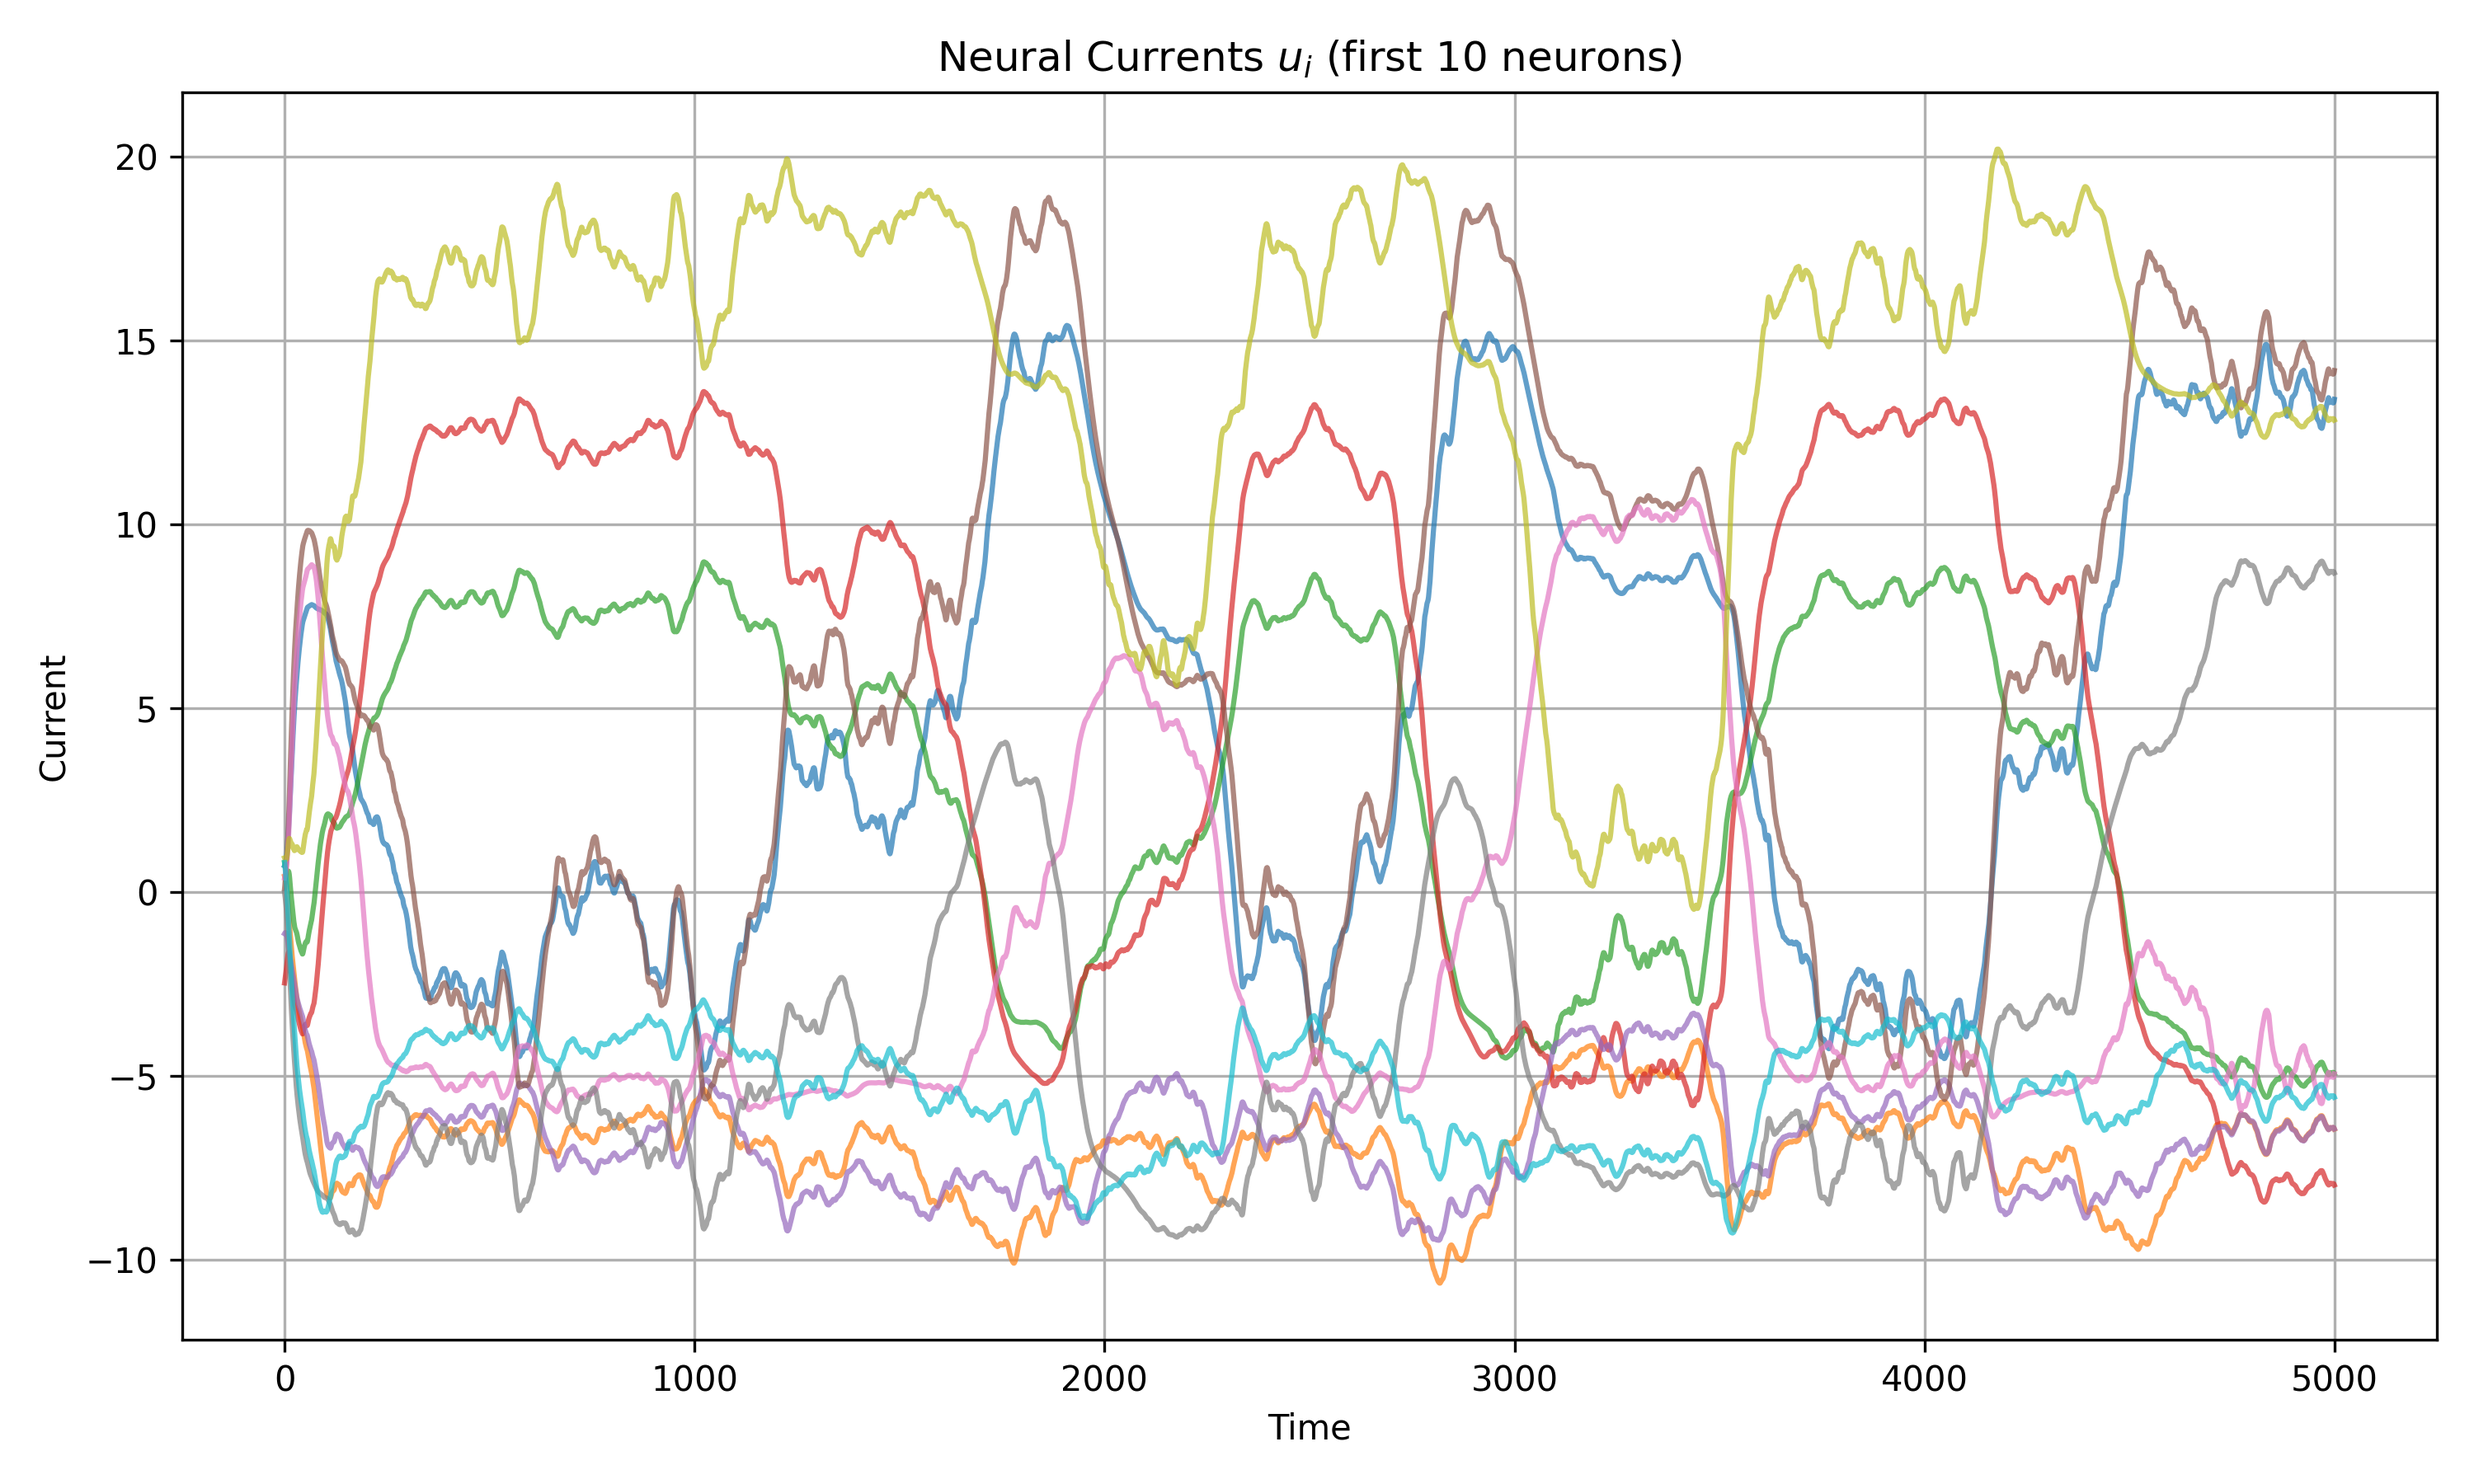
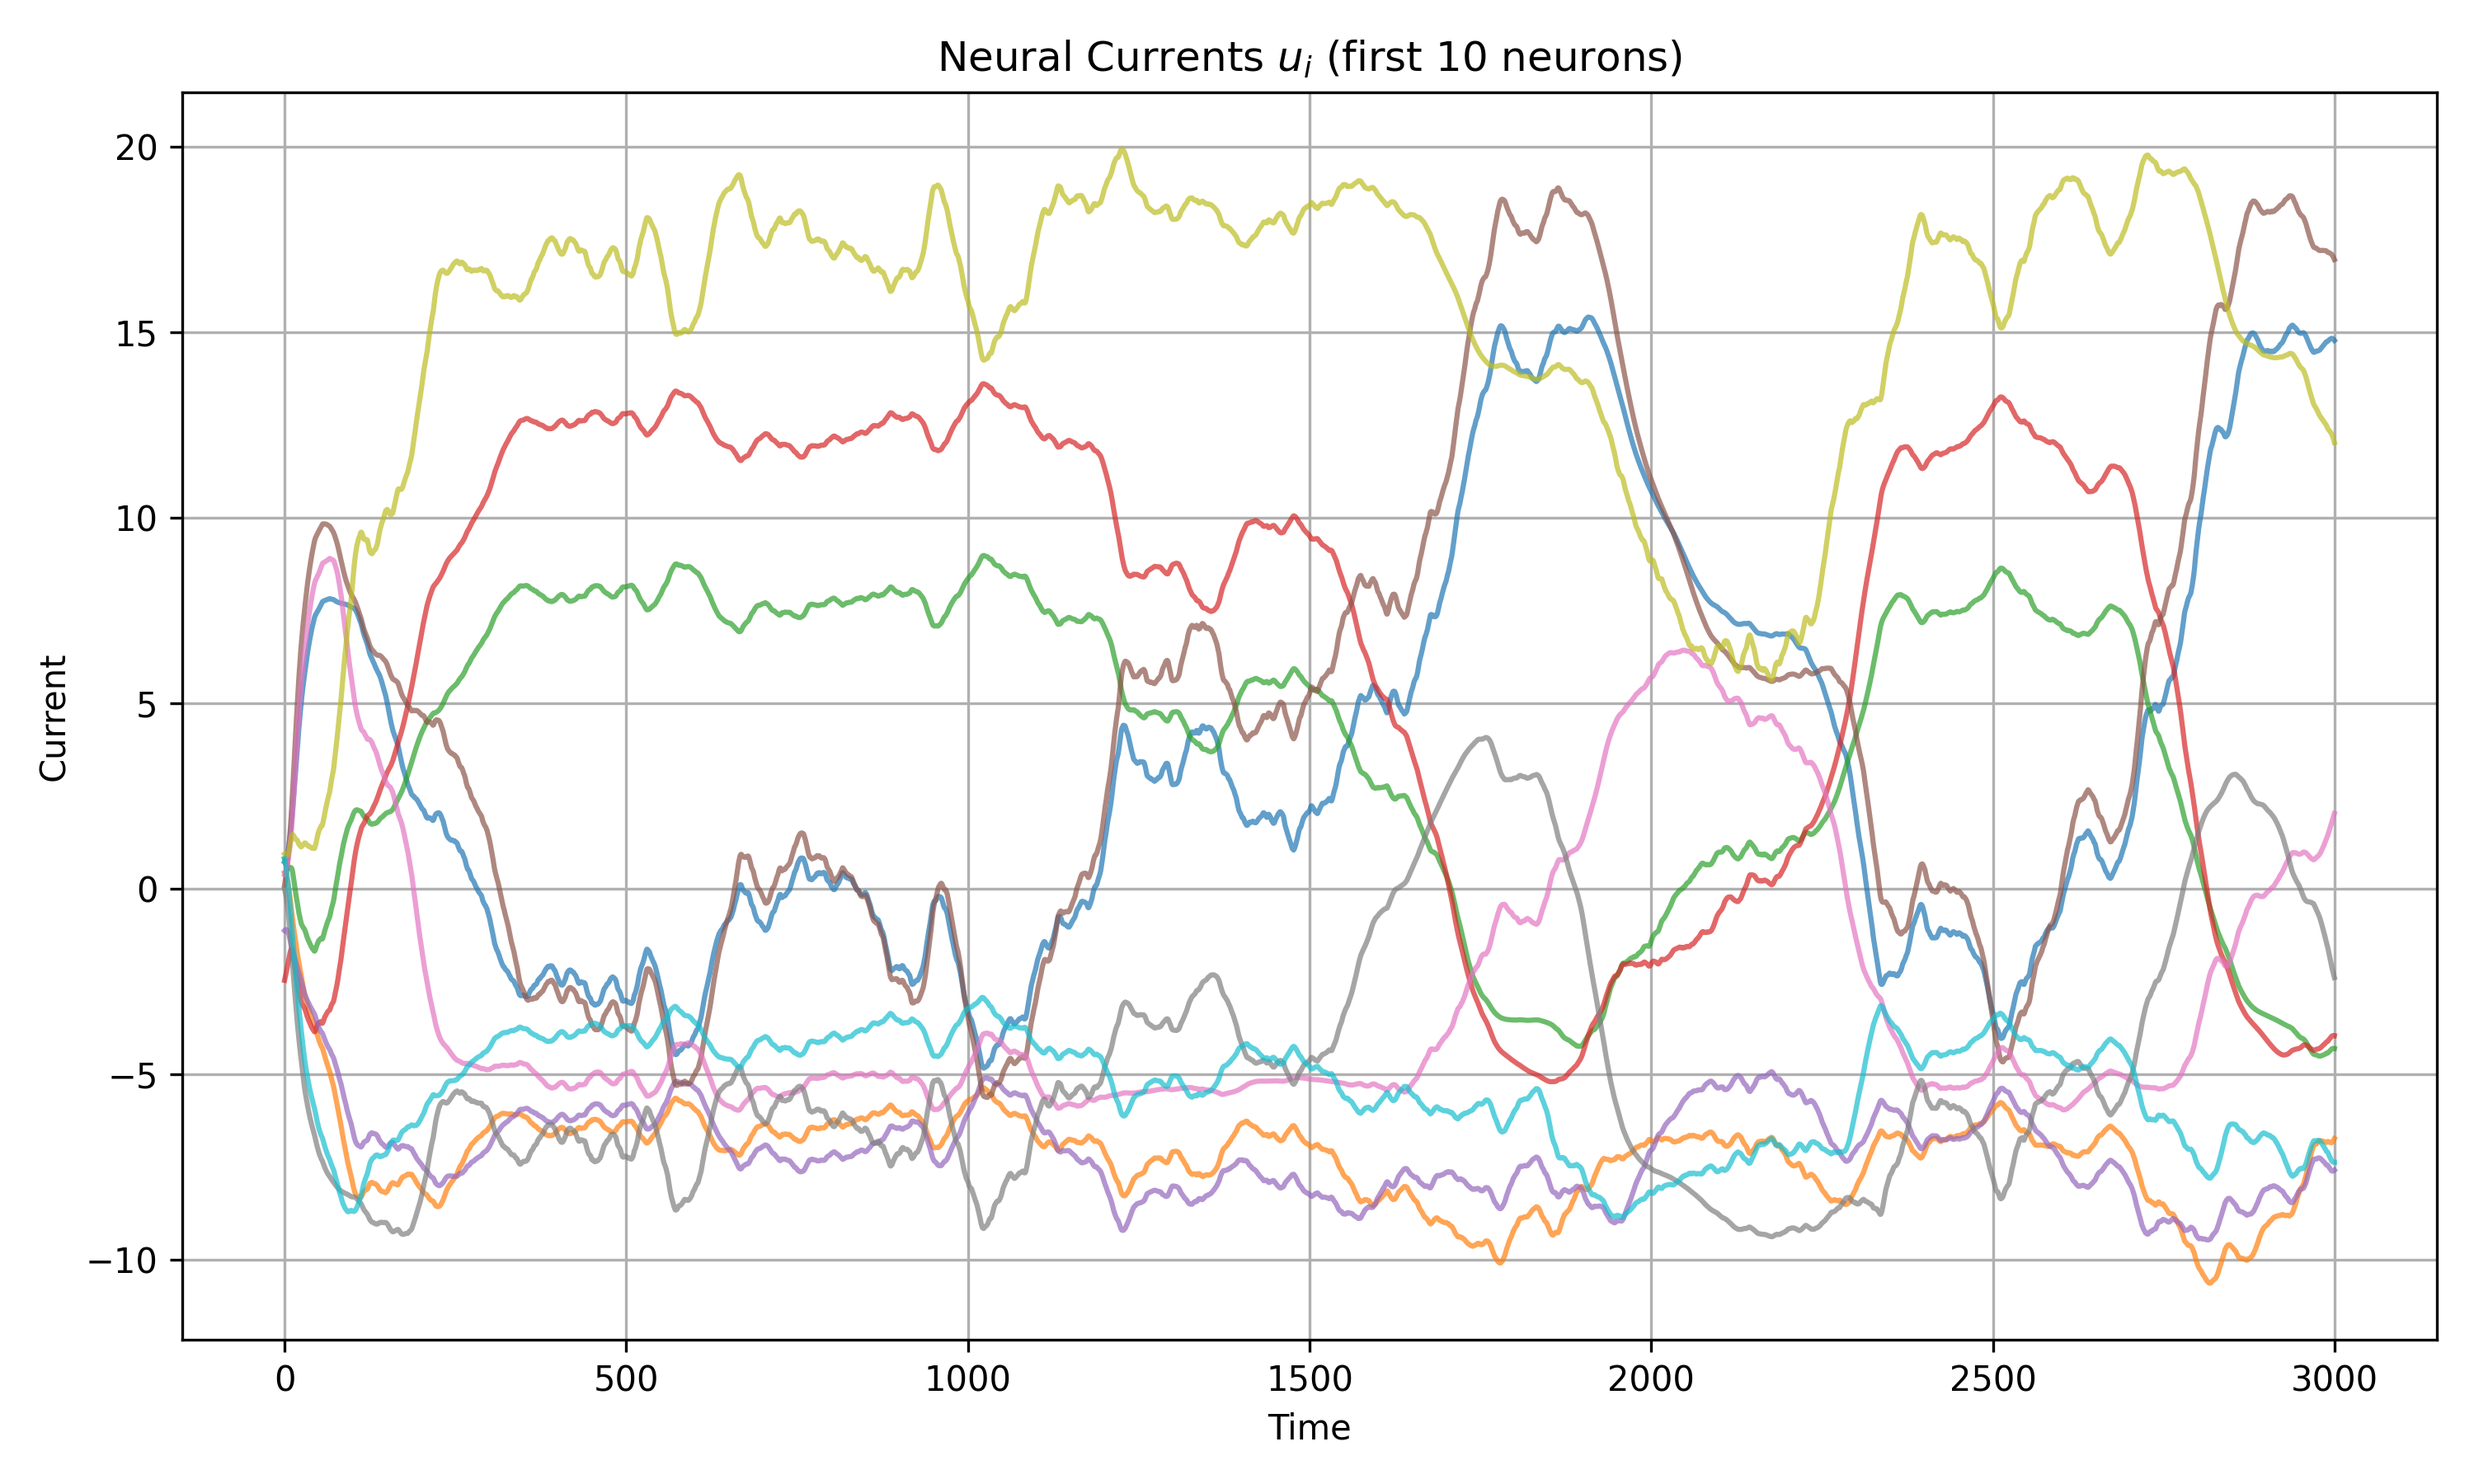
energy

diff --git a/src/modules/energy.py b/src/modules/energy.py
@@ -9,16 +9,73 @@ and the new symmetric and antisymmetric components derived from the total connec
 """
 
 import numpy as np
+from scipy.integrate import quad
+from scipy.interpolate import interp1d
+from modules.activation import inverse_sigmoid_function, inverse_relu_function
 
-def compute_energy(W, h):
+
+def compute_energy(
+    W, h,
+    phi_function_type="sigmoid",
+    phi_amplitude=1.0,
+    phi_beta=1.5,
+    phi_r_m=30.0,
+    phi_x_r=2.0,
+    num_interp_points=1000
+):
     """
-    Compute the total energy of the system given the connectivity matrix W and history h.
+    Compute total energy E(t) = -0.5 * h_t^T W h_t + sum_i int_0^{h_i} g^{-1}(x) dx
+    using lookup-table interpolation for fast integration.
+    It can handle both the single state case (h is a vector) and the multi-state case (h is a matrix).
+    
+    Args:
+        W: (N x N) connectivity matrix
+        h: (T x N) array of firing rates OR memory pattern (the single state case)
+        phi_function_type: "sigmoid" or "relu"
+        phi_amplitude, phi_beta, phi_r_m, phi_x_r: parameters of inverse activation
+        num_interp_points: number of points for lookup table grid
+        
+    Returns:
+        E: (T,) energy at each time step if h is a matrix, or a single value if h is a vector.
     """
-    # Ensure h is a column vector
+    # Ensure h shape is (T, N)
     if h.ndim == 1:
-        h = h[:, np.newaxis]
-    # Total energy
-    E_mat = h @ W @ h.T
-    # Sum over the 0 axis to get a scalar
-    E_traj = - np.sum(E_mat, axis=0)
-    return E_traj
+        h.reshape(-1, 1)  # If h is 1D, convert to 2D column vector
+        single_state = True
+        T, N = 1, h.shape[0]
+    else:
+        single_state = False
+        T, N = h.shape
+
+    # Select inverse function
+    if phi_function_type == "sigmoid":
+        inv_func = lambda v: inverse_sigmoid_function(v, r_m=phi_r_m, beta=phi_beta, x_r=phi_x_r)
+        h_clip_min = 1e-4
+        h_clip_max = phi_r_m - 1e-4
+    elif phi_function_type == "relu":
+        inv_func = lambda v: inverse_relu_function(v, amplitude=phi_amplitude)
+        h_clip_min = 0.0
+        h_clip_max = phi_amplitude * 1.5  # estensione sicura
+    else:
+        raise ValueError("Unsupported phi_function_type")
+
+    # Precompute lookup table
+    x_vals = np.linspace(h_clip_min, h_clip_max, num_interp_points)
+    integral_vals = np.array([quad(inv_func, 0, x)[0] for x in x_vals])
+    interp_integral = interp1d(x_vals, integral_vals, kind="linear", bounds_error=False, fill_value="extrapolate")
+
+    # Compute energy
+    energies = np.zeros(T)
+    for t in range(T):
+        h_t = h[t, :]
+        h_t_clipped = np.clip(h_t, h_clip_min, h_clip_max)
+
+        # First term: -0.5 * h_t^T W h_t
+        energy_syn = -0.5 * h_t @ W @ h_t
+
+        # Second term: sum_i ∫0^{h_i} g^{-1}(x) dx via interpolation
+        energy_act =  np.sum(interp_integral(h_t_clipped))
+        energies[t] = energy_syn + energy_act
+
+    return energies if not single_state else energies[0]
+

diff --git a/src/main.py b/src/main.py
@@ -6,6 +6,7 @@ This script allows you to generate connectivity matrices and run simulations.
 All parameters are configured in parameters.py - edit that file to change simulation settings.
 """
 import os
+from flask import app
 import numpy as np
 import matplotlib.pyplot as plt
 from sympy import use
@@ -67,6 +68,7 @@ from parameters import (
 
     # Visualization parameters
     n_display,
+    show_sim_plots,
 
     # Seed for reproducibility
     seed
@@ -82,7 +84,7 @@ def main():
     )
 
     # Generate connectivity matrix with all parameters
-    W_S, W_A, W, eta = generate_connectivity_matrix(
+    W_S, W_A, W, eta, phi_eta = generate_connectivity_matrix(
         N=N,
         p=p,
         q=q,
@@ -376,6 +378,7 @@ def main():
     np.save(os.path.join(npy_dir, "connectivity_asymmetric.npy"), W_A)
     np.save(os.path.join(npy_dir, "connectivity_total.npy"), W)
     np.save(os.path.join(npy_dir, "memory_patterns.npy"), eta)
+    np.save(os.path.join(npy_dir, "phi_memory_patterns.npy"), phi_eta)
     
     # Save OU process
     zeta_array = np.asarray(zeta)
@@ -626,19 +629,25 @@ def main():
 
     print(f"Saved complete figure: complete_simulation_results.png")
     print(f"Saved individual plots: {', '.join([f'{title}.png' for title in titles])}")
-
-    plt.show()
+    if show_sim_plots:
+        plt.show()
+    else:
+        print("Plots not displayed, only saved to files.")
     plt.close('all')  # Close all figures to free memory
 
     # Calculate and plot energy
+    print("\nCalculating and plotting energy trajectories...")
+    # Load connectivity matrices and history from npy files
     connectivity_path = os.path.join(npy_dir, "connectivity_total.npy")
     overlaps_path = os.path.join(npy_dir, "pattern_overlaps.npy")
     original_symm_path = os.path.join(npy_dir, "connectivity_symmetric.npy")
     original_asymm_path = os.path.join(npy_dir, "connectivity_asymmetric.npy")
-    history_path = os.path.join(npy_dir, "neural_currents.npy")
+    history_path = os.path.join(npy_dir, "firing_rates.npy")
+    phi_memory_patterns_path = os.path.join(npy_dir, "phi_memory_patterns.npy")
     W, h = np.load(connectivity_path), np.load(history_path)
     W_symm = np.load(original_symm_path)
     W_asymm = np.load(original_asymm_path)
+
     # plot energy trajectories both original and divided with symmetric and antisymmetric components
     E_total_traj = compute_energy(W, h)
     E_symm_traj = compute_energy(W_symm, h)

diff --git a/src/parameters.py b/src/parameters.py
@@ -10,6 +10,9 @@ Edit this file to configure your simulation, then run main.py to execute.
 # =============================================================================
 
 # Network size and pattern parameters
+from scipy.__config__ import show
+
+
 N = 1000               # Number of neurons (increased for Numba testing)
 p = 5                 # Number of patterns for symmetric component
 q = 3                  # Number of patterns for asymmetric component (q <= p)
@@ -55,7 +58,7 @@ apply_er_to_asymmetric = False  # Apply Erdős-Rényi to asymmetric component
 # Time and integration parameters
 tau = 20.0              # Time constant for neural dynamics
 t_start = 0.0           # Simulation start time
-t_end = 5000.0           # Simulation end time
+t_end = 3000.0           # Simulation end time
 dt = 0.2                # Time step for simulation output (increased for efficiency)
 
 # Performance optimization
@@ -76,7 +79,7 @@ use_ou = True          # Whether to use Ornstein-Uhlenbeck process for ζ(t)
 tau_zeta = 20.0          # OU time constant
 zeta_bar = 0.6          # OU mean value
 sigma_zeta = 0.3        # OU noise intensity
-constant_zeta = 0.5     # Constant ζ value when OU is not used
+constant_zeta = 1.     # Constant ζ value when OU is not used
 
 # =============================================================================
 # VISUALIZATION PARAMETERS
@@ -84,7 +87,7 @@ constant_zeta = 0.5     # Constant ζ value when OU is not used
 
 # Number of neurons to display in plots
 n_display = 10             # Maximum number of neurons to display in plots (reduced for 10k)
-
+show_sim_plots = False  # Whether to show individual plots for each variable
 
 # =============================================================================
 # SEED

diff --git a/src/modules/activation.py b/src/modules/activation.py
@@ -75,3 +75,17 @@ def step_function(x, q_f=1.0, x_f=0.0):
   x = np.asarray(x)
   y = np.where(x > x_f, q_f, -(1 - q_f))
   return y
+
+def inverse_sigmoid_function(x, r_m=1.0, beta=1.0, x_r=0.0):
+    """
+    Inverse of the 3-parameter sigmoid: g(x) = 1 / (1 + exp(-a(x - theta)))
+    """
+    x = np.clip(x, 1e-6, r_m - 1e-6)  # Avoid division by zero with clipping
+    return x_r + (1 / beta) * np.log(x / (r_m - x))
+
+def inverse_relu_function(x, amplitude=1.0):
+    """
+    Inverse of the ReLU function: g(x) = x / amplitude for x >= 0, 0 for x < 0
+    """
+    x = np.asarray(x)
+    return np.where(x >= 0, x / amplitude, 0.0)

diff --git a/src/modules/connectivity.py b/src/modules/connectivity.py
@@ -321,7 +321,7 @@ def generate_connectivity_matrix(N,
     # Double-check that diagonal elements are zero in total matrix
     np.fill_diagonal(W, 0)
 
-    return W_S, W_A, W, eta_raw
+    return W_S, W_A, W, eta_raw, eta # eta_raw is the unprocessed patterns, eta is the processed patterns with φ applied
 
 def calculate_pattern_correlation_matrix(eta_patterns):
     """
